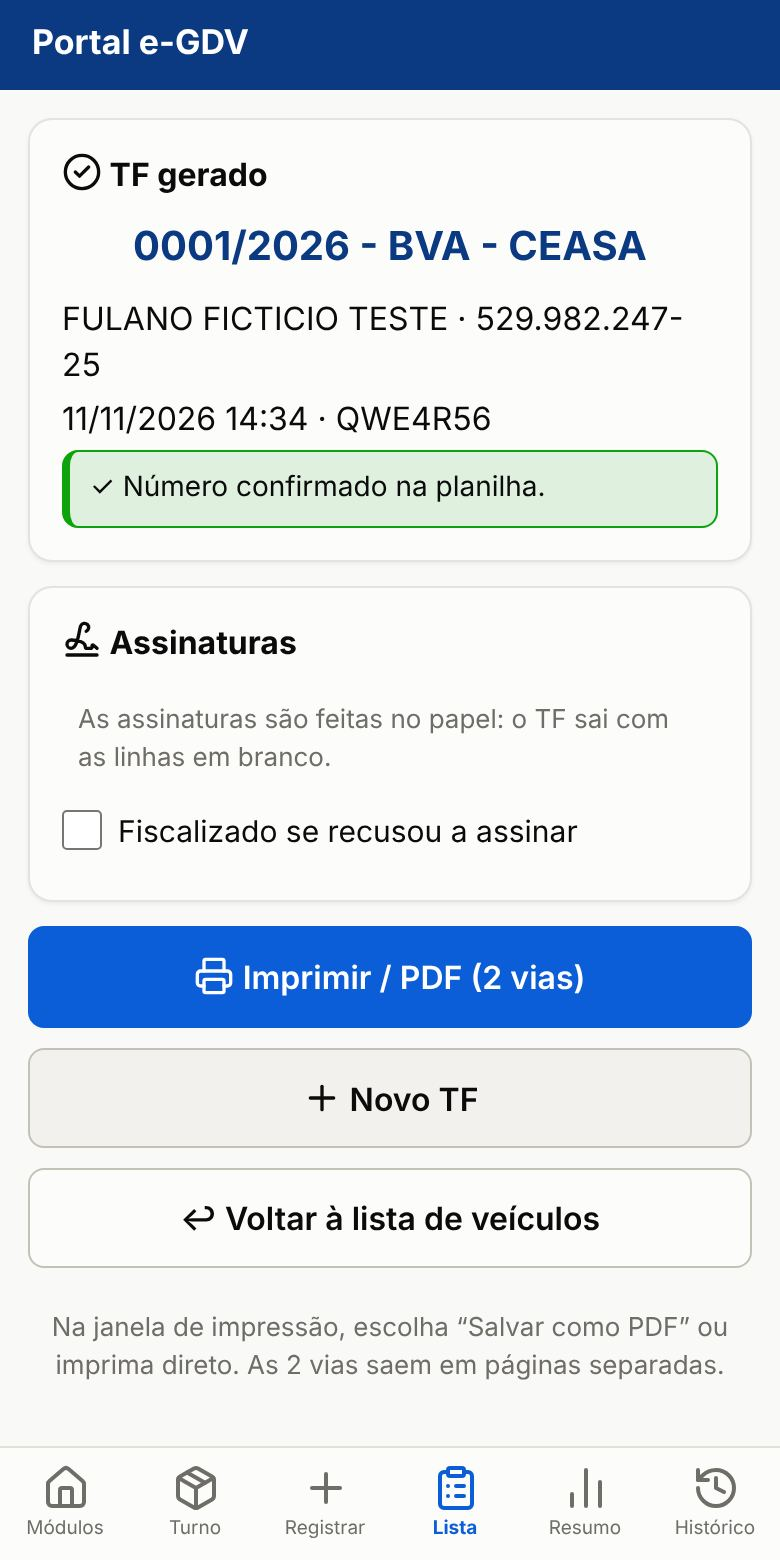
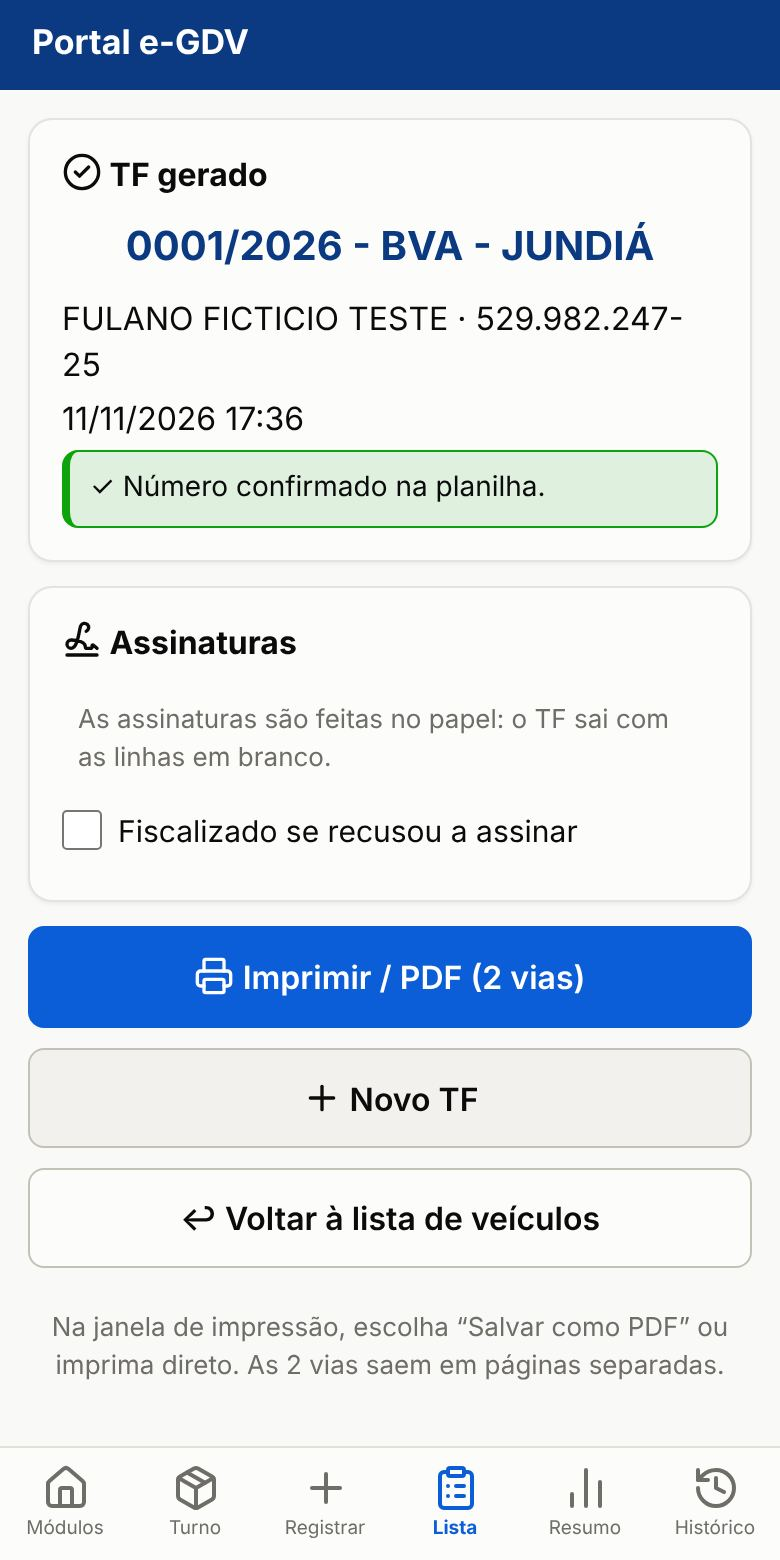
TF no turno: barreira da BVA do turno (não a última usada no aparelho)
- O formulário do TF escolhia a barreira usada por último no aparelho (ou a
  primeira da lista): no turno do Jundiá, o TF saía com o nº da CEASA. Agora,
  no TF do turno, vem a barreira cuja id/nome/sufixo é a BVA do turno.
- BVA fixa sem barreira no cadastro (aba Barreiras): aviso no formulário para
  conferir a barreira e cadastrar a BVA no painel.
- tf_barreira_turno_test (novo); prints do manual refeitos com a barreira do
  Jundiá; turno_papel_test espera o Histórico redesenhar depois do aviso.

Claude-Session: https://claude.ai/code/session_019yJMCF5qMQwAwoPiyfdFRQ

diff --git a/tests/tf_barreira_turno_test.js b/tests/tf_barreira_turno_test.js
@@ -1,0 +1,48 @@
+const amb = require('./lib/amb');
+const U = require('./lib/usuarios');
+// Barreira do TF lavrado no turno (tf.js: barreiraDoLocal): o TF vem com a barreira da BVA do turno, mesmo que o aparelho tenha usado
+// outra barreira por último (antes, um TF no turno do Jundiá saía com o nº da CEASA). BVA fixa sem barreira no cadastro: aviso no
+// formulário. App real (Chromium) + Code.gs real. Dados fictícios.
+const { API, APP } = amb;
+let falhas = 0;
+const ok = (c, m, x) => { console.log((c ? '  ✓ ' : '  ✗ ') + m + (c || x === undefined ? '' : ' → ' + (typeof x === 'string' ? x : JSON.stringify(x)).slice(0, 400))); if (!c) falhas++; };
+const fn = (nome, args) => fetch(API + '/__fn?nome=' + nome + '&args=' + encodeURIComponent(JSON.stringify(args))).then(r => r.json());
+
+(async () => {
+  const b = await amb.lancar();
+  try {
+    await fn('listarBarreiras_', []);   // cria a barreira padrão (CEASA) se a aba estiver vazia
+    const ins = await fn('inserir_', ['Barreiras', [{ id: 'BVA-JUNDIA', nome: 'BVA-JUNDIÁ', sufixo: 'BVA - JUNDIÁ', local: 'BR-174, km 75', ativo: 1 }]]);
+    ok(ins && !ins.erro, 'barreira do Jundiá no cadastro (aba Barreiras)', ins);
+    const F = await U.fiscal('Fulano Ficticio Teste');
+    const c = await b.newContext({ viewport: { width: 400, height: 860 }, timezoneId: 'America/Manaus', permissions: ['geolocation'], geolocation: { latitude: -2.05, longitude: -60.02, accuracy: 10 } });
+    await c.route(u => !/^https?:\/\/(localhost|127\.0\.0\.1)[:/]/.test(String(u)), r => r.abort());
+    await c.addInitScript(i => { if (!localStorage.getItem('gdv.key')) { localStorage.setItem('gdv.url', window.__GDV_API); Object.entries(i).forEach(([k, v]) => localStorage.setItem(k, v)); localStorage.setItem('gdv.barreira', 'BVA-CEASA'); } }, F.ls);
+    const p = await c.newPage(); const erros = []; p.on('pageerror', e => erros.push(e.message)); p.on('dialog', d => d.accept());
+    await p.goto(APP); await p.waitForSelector('.modulo'); await p.evaluate(() => Sync.sincronizar());
+
+    const turnoComTF = async (local, n) => {
+      await p.click('nav [data-v=modulos]').catch(() => {}); await p.click('.modulo[data-v=home]'); await p.waitForSelector('#fTurno');
+      await p.selectOption('#nPosto', 'Fixa'); await p.selectOption('#nLocal', local); await p.fill('#nTF', String(n));
+      await p.click('#fTurno button[type=submit]'); await p.waitForSelector('.contador', { timeout: 20000 });
+      await p.waitForTimeout(300); await p.click('nav [data-v=registrar]'); await p.waitForSelector('#fVeic'); await p.fill('#placa', 'ABC1D23'); await p.click('#fVeic > button'); await p.waitForTimeout(400);
+      await p.click('nav [data-v=lista]'); await p.waitForSelector('[data-tfveic]'); await p.locator('[data-tfveic]').first().click(); await p.waitForSelector('#tfForm');
+      await p.waitForTimeout(500);
+      return { barreira: await p.inputValue('#tf-barreira'), aviso: await p.$('#tf-sembarreira') ? await p.textContent('#tf-sembarreira') : '' };
+    };
+    const encerrar = async () => {
+      await p.click('[data-tf=descartar]').catch(() => {}); await p.waitForTimeout(300);
+      await p.click('nav [data-v=resumo]'); await p.waitForSelector('#encerrar'); await p.click('#encerrar'); await p.waitForSelector('[data-doc=termo]', { timeout: 15000 });
+    };
+
+    const j = await turnoComTF('BVA - JUNDIÁ', 5);
+    ok(j.barreira === 'BVA-JUNDIA' && !j.aviso, 'turno do Jundiá: o TF vem com a barreira do Jundiá (o aparelho tinha usado a CEASA)', j);
+    await p.screenshot({ path: amb.saida('tf_barreira_turno.png'), fullPage: true });
+    await encerrar();
+    const a = await turnoComTF('BVA - AEROPORTO', 6);
+    ok(/BVA - AEROPORTO \(BVA do turno\) não está na lista de barreiras/.test(a.aviso), 'BVA fixa sem barreira no cadastro: aviso para conferir a barreira', a);
+    ok(!erros.length, 'sem erros de página', erros);
+  } finally { await b.close(); }
+  console.log(falhas ? `\n${falhas} falha(s)` : '\nTudo certo.');
+  process.exitCode = falhas ? 1 : 0;
+})().catch(e => { console.error(e); process.exitCode = 1; });

diff --git a/web/js/tf.js b/web/js/tf.js
@@ -34,6 +34,9 @@ const TFUI = (() => {
 
   /* ---------- numeração: uma sequência por barreira/ano, consultada na planilha na hora de gerar ---------- */
   const barreiras = async () => (await Store.meta('barreiras')) || [];
+  /** Barreira do TF que é a BVA do turno (id, nome ou sufixo do cadastro iguais ao local, sem acento/caixa/pontuação), ou null. */
+  const chaveBar = x => String(x || '').normalize('NFD').replace(/[\u0300-\u036f]/g, '').toLowerCase().replace(/[^a-z0-9]+/g, ' ').trim();
+  const barreiraDoLocal = (bars, local) => { const k = chaveBar(local); return k ? bars.find(b => [b.id, b.nome, b.sufixo].some(v => chaveBar(v) === k)) || null : null; };
   async function ultimoConhecido(b, a) {                                          // base para propor número SEM internet
     const uv = (((await Store.meta('ultimoVisto')) || {})[chave(b, a)] || 0);
     const locais = (await Store.todos('tfs')).filter(t => t.barreira === b && t.ano === a).reduce((m, t) => Math.max(m, t.numero), 0);
@@ -246,6 +249,7 @@ const TFUI = (() => {
     <div class="card"><h3>${pap ? `${icone('documento')} TF antigo (digitado do papel)` : 'Termo de Fiscalização de Barreira'}</h3>
       ${pap ? '<p class="dica" style="text-align:left" id="tf-papel-dica">Digite o TF como está no papel: número, data, hora e o servidor que fiscalizou. Precisa de internet: a planilha confere se o número está livre. Anexe o PDF escaneado.</p>' : ''}
       <label>Barreira<select id="tf-barreira">${bars.map(b => `<option value="${esc(b.id)}" ${b.id === D.barreira ? 'selected' : ''}>${esc(b.nome)}</option>`).join('')}</select></label>
+      ${!pap && S && S.semBarreira ? `<p class="dica aviso" style="text-align:left" id="tf-sembarreira">${icone('alerta')} A ${esc(S.semBarreira)} (BVA do turno) não está na lista de barreiras do TF: confira a barreira acima. Para incluir, a gerência salva a BVA no painel (BVAs).</p>` : ''}
       <div class="tf-num" id="tf-numero"></div>
       <div class="duas">${campo('data', 'Data', D.data, `type="date" required${pap ? ` max="${hojeISO()}"` : ''}`)}${campo('hora', 'Hora', D.hora, 'type="time" required')}</div>
       ${pap ? `${campo('servidor', 'Servidor que fiscalizou (nome completo) *', D.servidor, 'list="tf-servidores" autocapitalize="words"')}<datalist id="tf-servidores"></datalist>` : ''}</div>
@@ -394,8 +398,10 @@ const TFUI = (() => {
       if (prefill.veiculoId) { veic = await Store.obter('veiculos', prefill.veiculoId); S.veiculoId = prefill.veiculoId; }
       const tid = (veic && veic.turnoId) || (turno && turno.id) || ''; S.turnoId = tid;                  // TF fica ligado ao turno aberto
       const tr = tid ? await Store.obter('turnos', tid) : null;
-      const bPad = localStorage.getItem('gdv.barreira');
-      D.barreira = bars.some(b => b.id === bPad) ? bPad : bars[0].id;
+      // TF do turno: a barreira é a BVA do turno (o último usado neste aparelho pode ser de outra BVA); sem turno, a última usada
+      const bPad = localStorage.getItem('gdv.barreira'), doTurno = tr && barreiraDoLocal(bars, tr.local);
+      D.barreira = doTurno ? doTurno.id : bars.some(b => b.id === bPad) ? bPad : bars[0].id;
+      S.semBarreira = tr && tr.posto === 'Fixa' && !doTurno ? tr.local : '';     // BVA fixa sem barreira no cadastro: avisa no formulário
       D.local = (tr && tr.local) || (bars.find(b => b.id === D.barreira) || {}).local || '';
       if (veic) { D.placa = veic.placa; D.ufOrigem = veic.ufOrigem || ''; D.ufDestino = veic.ufDestino || '';    // origem/destino do registro do veículo
         D.origem = veic.origemMun || D.origem; D.destino = veic.destinoMun || D.destino; }

diff --git a/tests/manual_prints_test.js b/tests/manual_prints_test.js
@@ -25,6 +25,8 @@ async function print(p, nome, alvo) {
 (async () => {
   const b = await amb.lancar({ args: ['--no-sandbox', '--lang=pt-BR'] });
   try {
+    const fn = (nome, args) => fetch(API + '/__fn?nome=' + nome + '&args=' + encodeURIComponent(JSON.stringify(args))).then(x => x.json());
+    await fn('listarBarreiras_', []); await fn('inserir_', ['Barreiras', [{ id: 'BVA-JUNDIA', nome: 'BVA-JUNDIÁ', sufixo: 'BVA - JUNDIÁ', local: 'BR-174, km 75', ativo: 1 }]]);
     const coord = await U.fiscal('Carla Coordenadora Teste', { permissoes: ['campo', 'fiscalizacaoDeTransito', 'termoDeBarreira', 'coordenacaoBarreiras'] });
     const A = await U.fiscal('Fulano Ficticio Teste'), B = await U.fiscal('Beltrano Ficticio Teste');
     const D = await post({ action: 'escalaDados', key: coord.token }), id = n => D.fiscais.find(f => f.nome === n).id;
@@ -86,7 +88,6 @@ async function print(p, nome, alvo) {
     await p.click('nav [data-v=lista]'); await p.waitForSelector('[data-tfveic]'); await print(p, '09-lista-veiculos');
     await p.locator('[data-tfveic]').first().click(); await p.waitForSelector('#tfForm');
     await p.waitForFunction(() => document.querySelector('#tf-num') && !/Consultando/.test(document.querySelector('#tf-num-dica').textContent), null, { timeout: 10000 });
-    await p.selectOption('#tf-barreira', { label: 'BVA - JUNDIÁ' }).catch(() => {});
     await p.fill('#tf-doc', '529.982.247-25'); await p.waitForFunction(() => /Novo cadastro|Cadastro encontrado/.test(document.querySelector('#tf-st-doc').textContent), null, { timeout: 8000 });
     await p.fill('#tf-nome', 'FULANO FICTICIO TESTE'); await p.fill('#tf-endereco', 'RUA DAS FLORES 10'); await p.fill('#tf-municipio', 'MANAUS');
     await p.fill('#tf-uf', 'am'); await p.fill('#tf-telefone', '92999990000'); await p.fill('#tf-origem', 'PRESIDENTE FIGUEIREDO'); await p.fill('#tf-destino', 'MANAUS');

diff --git a/tests/turno_papel_test.js b/tests/turno_papel_test.js
@@ -56,6 +56,7 @@ const ontem = diaM(Date.now() - 864e5), ANO = ontem.slice(0, 4);
     await p.click('[data-go=home]').catch(() => {}); await p.click('nav [data-v=historico]'); await p.waitForSelector(`[data-numturno="${ta.id}"]`, { timeout: 10000 });
     await p.click(`[data-numturno="${ta.id}"]`);
     await p.waitForFunction(() => /Nº corrigido: TF-035-A/.test(document.querySelector('#toast').textContent), null, { timeout: 15000 }).catch(() => {});
+    await p.waitForFunction(() => /TF-035-A/.test(document.querySelector('main').textContent), null, { timeout: 10000 }).catch(() => {});   // o Histórico redesenha depois do aviso
     const tc = (await aba('Turnos')).find(t => t.id === ta.id);
     ok(tc.numeroTF === `TF-035-A-${ANO}` && /TF-035-A/.test(await p.textContent('main')), 'botão "Corrigir nº" no Histórico: TF-031-A vira TF-035-A (planilha e tela)', tc.numeroTF);
 
